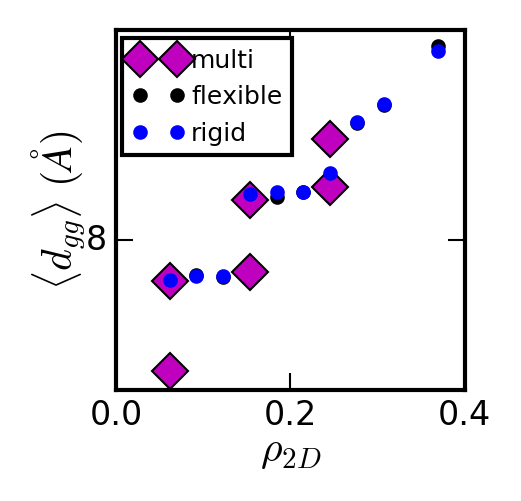
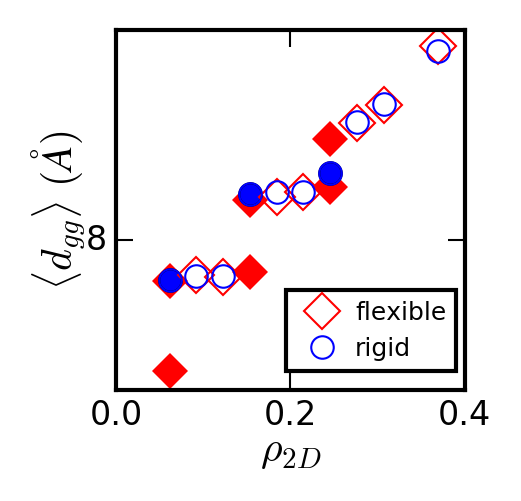
Lots of changes today working on a paper draft

diff --git a/python/plot_vs_2D_density.py b/python/plot_vs_2D_density.py
@@ -3,7 +3,7 @@ import numpy as np
 import matplotlib
 import matplotlib.pyplot as plt
 from matplotlib.ticker import *
-MaxNLocator.default_params['nbins']=2
+MaxNLocator.default_params['nbins']=4
 
 from csvfile import CSVFile
 from gauss_fits import skew, double, normal
@@ -11,6 +11,7 @@ from gauss_fits import skew, double, normal
 def plot_scatter(csv):
     '''Using data from a histogram, plot several'''
     f = plt.figure(1, figsize = (1.5, 1.5)); ax = f.add_subplot(111)
+   #f = plt.figure(1, figsize = (3.3, 3.3)); ax = f.add_subplot(111)
     plt.rcParams.update({'font.size': 8}); ncl = 3
     ax.xaxis.set_major_locator(MaxNLocator())
     ax.yaxis.set_major_locator(MaxNLocator())
@@ -27,7 +28,7 @@ def plot_scatter(csv):
     # graphene graphene separation
     elif "d_gg" in csv.csvfname:
         plt_l = 0; ff,df,flx,fl,rt,rtx = [],[],[],[],[],[]; 
-        bbox, ncl = (0.52,0.99), 1
+        bbox, ncl = (0.99,0.29), 1
         flexb = csv.dat[csv.find_keyword('dgg_f')]
         for j in range(flexb.shape[1]): 
             if flexb[1][j] != 0.:
@@ -35,9 +36,9 @@ def plot_scatter(csv):
                 ff.append(dens[j]); fl.append(flexb[0][j])
                 ff.append(dens[j]); fl.append(flexb[1][j])
             else:  df.append(dens[j]); flx.append(flexb[0][j])
-        plt.plot(ff, fl, 'kD')#label = "multi")
+        plt.plot(ff, fl, 'rD', markeredgecolor ="none")#label = "multi")
         plt.plot(rtx, rt, 'bo', markersize = 5.4)
-        plt.plot(df, flx, 'kD', fillstyle="none", label = "flexible")
+        plt.plot(df, flx, 'rD', fillstyle="none", label = "flexible")
         plt.plot(dens, rigid, 'bo', markersize = 5.4, fillstyle = "none",label = "rigid")
         ax.set_xlim([0.,0.40]);ax.set_ylim([3,15])
         ax.set_ylabel(r"$\langle d_{gg} \rangle \,\, (\AA)$",fontsize= 10)
@@ -55,13 +56,14 @@ def plot_scatter(csv):
         x = np.linspace(0,1,70); y = np.ones(70)*bulk_v
         plt.plot(x,y, 'r--',dashes=(1.5,0.9),linewidth=0.7,label="bulk,\n298K")
         y=np.linspace(0,xm,70); ax.set_xlim([0.,0.55]); ax.set_ylim([0,xm])
-        lay = [0.1465, 0.245, 0.3525]; txl = [0.06,0.17,0.27, 0.405]
+        lay = [0.1465, 0.245, 0.3525]; txl = [0.05,0.16,0.27, 0.405]
         clr = [0.439, 0.502, 0.565]
         for ll in range(len(lay)):
             plt.plot(np.ones(70)*lay[ll],y,'--',color=clr,
                      dashes=(2.5,0.9),linewidth=0.7)
-            plt.text(txl[ll],texty,str(ll)+'L',fontsize=10, color = clr)
-        plt.text(txl[ll],texty,str(ll)+'L',fontsize=10, color = clr)
+            plt.text(txl[ll],texty,str(ll+1)+'L',fontsize=10, color = clr)
+        ll = 3
+        plt.text(txl[ll],texty,str(ll+1)+'L',fontsize=10, color = clr)
 
     ax.legend(ncol = ncl, fontsize=6, columnspacing = 0.2,handletextpad= 0.25,
               bbox_to_anchor = bbox, handlelength = 2.1,numpoints = 1,

diff --git a/python/dics.py b/python/dics.py
@@ -18,10 +18,10 @@ colorL = [
 dens = {
          6   :   [0.062, colorL[0], "-"],
          7   :   [0.092, colorL[1], "-"],
-         8   :   [0.123, colorL[-4], "-"],
-         9   :   [0.154, colorL[0], "-"],
-        #8   :   ["square", colorL[-4], "-"],     # for ice plots
-        #9   :   ["hexagonal", colorL[1], "-"],   # for ice plots
+        #8   :   [0.123, colorL[-4], "-"],
+        #9   :   [0.154, colorL[0], "-"],
+         8   :   ["square", colorL[-4], "-"],     # for ice plots
+         9   :   ["hexagonal", colorL[1], "-"],   # for ice plots
          10  :   [0.185, colorL[1], "-"],
          11  :   [0.215, colorL[-4], "-"],
          12  :   [0.245, colorL[0], "-"],

diff --git a/python/plot_3B_angles_multi.py b/python/plot_3B_angles_multi.py
@@ -19,8 +19,8 @@ def plot_scatter(plt_nm, csvL, sep, ln):
         for j in range(len(csvL[i])):
            fn = csvL[i][j].csvfname.split("_")
            sep = int(fn[0][3:])
-           if "bulk" != dens[sep][0]: lg = "{0:.3f}".format(dens[sep][0])
-           else:                          lg = "bulk"
+           if type(dens[sep][0]) == float: lg = "{0:.3f}".format(dens[sep][0])
+           else:                         lg = dens[sep][0]
            ax.plot(csvL[i][j].dat[0],csvL[i][j].dat[1],
                    color = dens[sep][1], label=lg)
            mn += fn[0][3:] + "_";  ct += 1

diff --git a/python/plot_gr.py b/python/plot_gr.py
@@ -27,7 +27,7 @@ def plot_scatter(plt_nm, csvL, sep, ln):
           #    ax.plot(dat[0], dat[k], label=str(k), color = colorL[ct+3])
           #    ct += 1
 
-           if dn < 21: lg = "{0:.3f}".format(dens[dn][0])
+           if type(dens[dn][0]) == float: lg = "{0:.3f}".format(dens[dn][0])
            else:               lg = dens[dn][0]
            
            if dens[dn][2] == "--": dsh = (2,1)

diff --git a/python/plot_x.py b/python/plot_x.py
@@ -36,7 +36,7 @@ def plot_scatter(plt_nm, csvL, sep, ln):
         handlelength = 1.3, borderaxespad = -0.9,
         bbox_to_anchor = (1.0,1.12),
         )
-    ax.set_xlim([0.2,0.8]);#ax.set_ylim([0,10.0])
+    ax.set_xlim([0.2,0.8]); ax.set_ylim([0,10.0])
     ax.set_ylabel(r"PDF",fontsize=12)
     ax.set_xlabel("$x/d_{gg}$",fontsize=12)
     ax.yaxis.labelpad = -0.6; ax.xaxis.labelpad = -0.6
